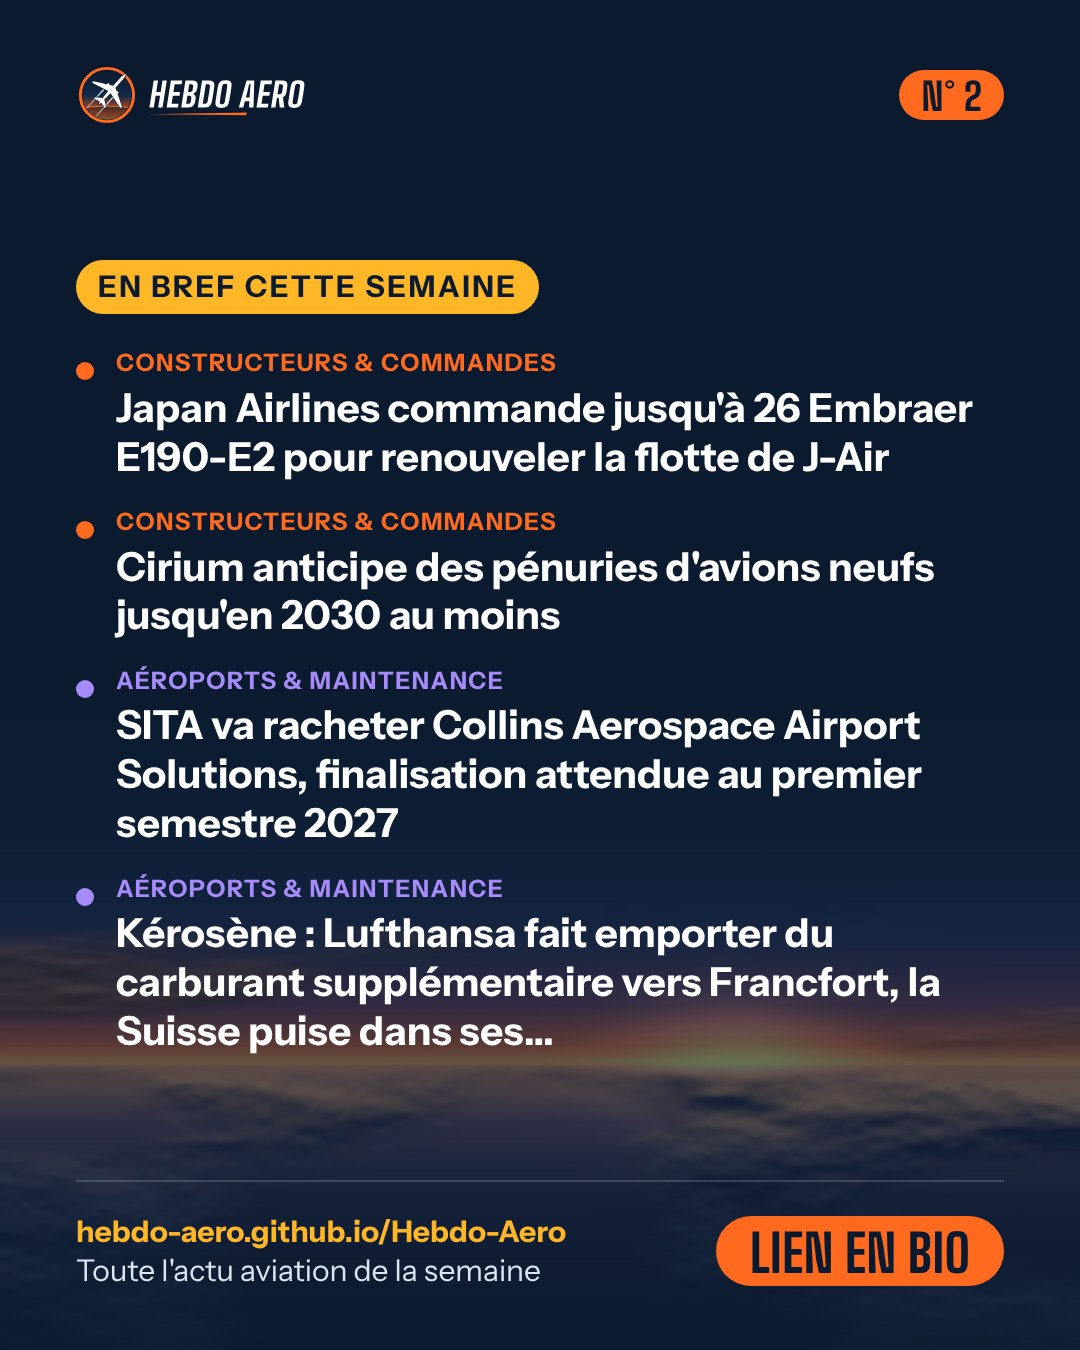
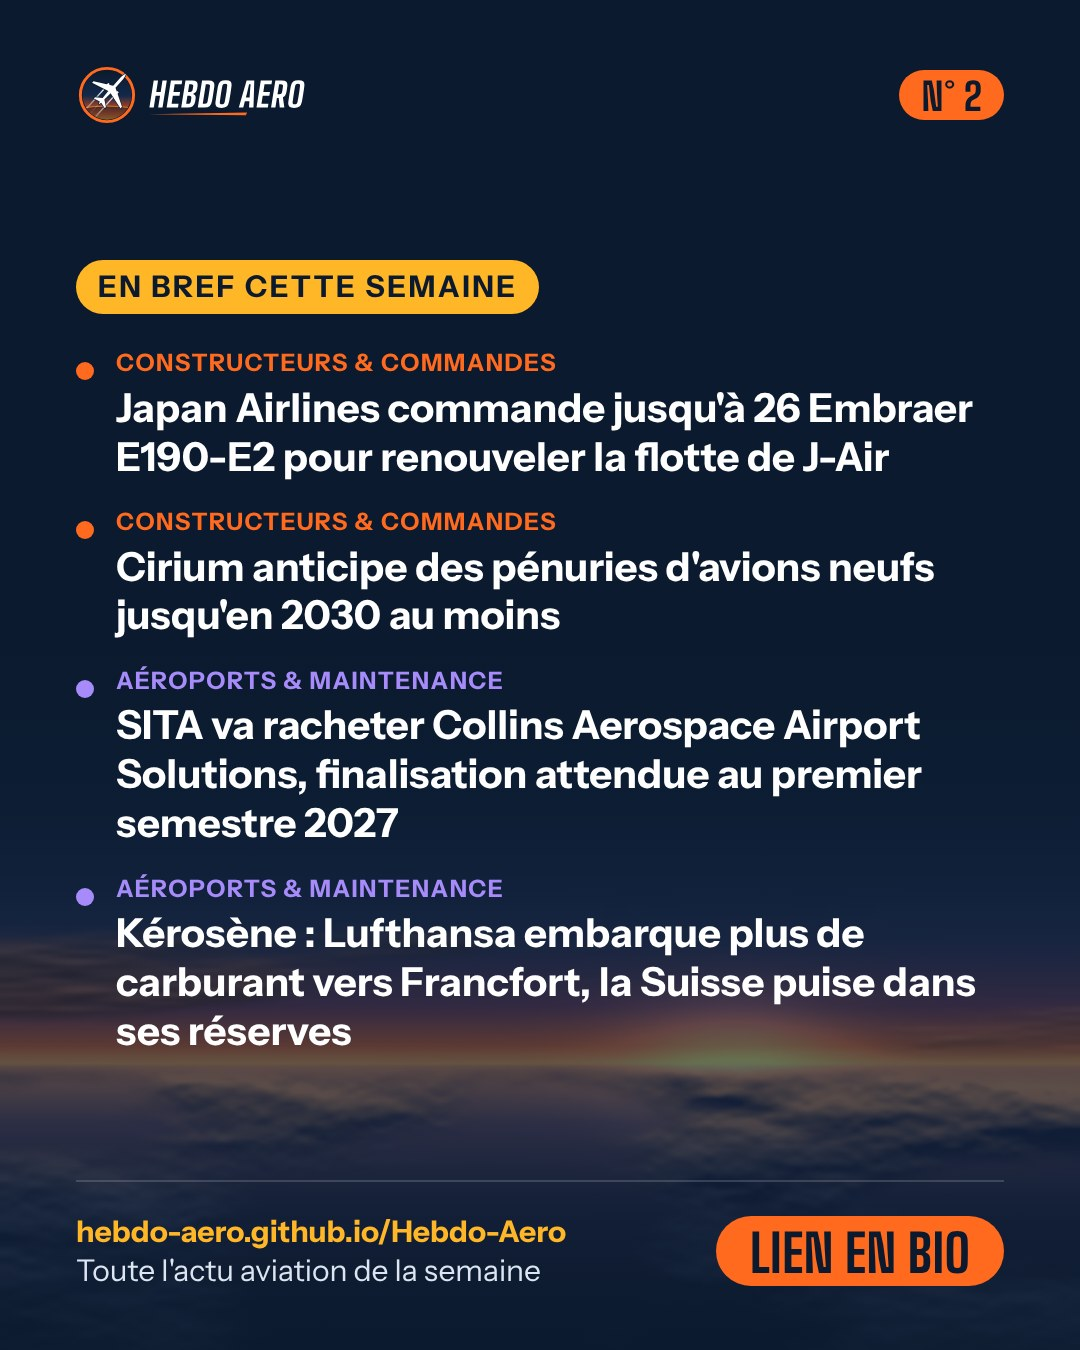
Stories Instagram (9:16) pour chaque image du jour, liens Instagram et TikTok sur le site
- cartes.py : chaque image du jour existe aussi en format story (1080 x 1920,
  « -story.jpg »), avec un repère vers le lien en bio ; le manifeste donne url_story.
- Pas de titre coupé (« … ») sur les images promotionnelles.
- Rédaction : titres de 90 caractères au plus demandés, coupure à 130 seulement.
- N° 2 : titre de brève coupé complété.
- Profils Instagram et TikTok affichés sur le site et dans la newsletter.

Claude-Session: https://claude.ai/code/session_01KFcxBXB6NXPWVbR6Dn4yeH

Changed region(s): [[0.0917, 0.6844, 0.9167, 0.7778]]

diff --git a/revue/templates/carte.html b/revue/templates/carte.html
@@ -50,6 +50,15 @@ footer p { font-size: 30px; color: #DCE6F2; line-height: 1.3; }
 footer p b { display: block; color: var(--soleil); font-size: 30px; }
 footer .cta { flex: none; font-family: "Big Shoulders"; font-weight: 700; font-size: 52px; color: var(--nuit); background: var(--orange);
               padding: 6px 34px 2px; border-radius: 999px; }
+
+/* Story Instagram (1080 × 1920) : le haut (barre de progression, nom du compte) et le bas (zone de réponse)
+   sont recouverts par l'interface d'Instagram, le contenu reste donc entre ces deux bandes. */
+html.story, html.story body { height: 1920px; }
+.story #ciel { height: 1150px; }
+.story #voile { background: linear-gradient(180deg, #0B1A2E 0%, #0B1A2E 34%, rgba(11,26,46,.84) 56%, rgba(11,26,46,.6) 76%, rgba(11,26,46,.94) 100%); }
+.story .cadre { padding: 236px 76px 330px; }
+.story main { padding: 40px 0 30px; }
+.story .repere { margin-top: 26px; font-size: 30px; font-weight: 700; color: var(--soleil); text-align: center; }
 </style>
 </head>
 <body class="c-{{ couleur }}">
@@ -84,8 +93,11 @@ footer .cta { flex: none; font-family: "Big Shoulders"; font-weight: 700; font-s
     <p><b>{{ adresse }}</b>Toute l'actu aviation de la semaine</p>
     <span class="cta">LIEN EN BIO</span>
   </footer>
+  {% if story %}<p class="repere">↖ Touchez @{{ compte }} en haut, puis le lien en bio</p>{% endif %}
 </div>
 <script>
+const STORY = {{ "true" if story else "false" }};
+if (STORY) document.documentElement.classList.add("story");
 // réduit les titres et textes trop longs pour qu'ils tiennent dans l'image
 function ajuster(sel, max, mini) {
   const e = document.querySelector(sel); if (!e) return;
@@ -93,7 +105,8 @@ function ajuster(sel, max, mini) {
   while (e.scrollHeight > max && t > mini) { t -= 2; e.style.fontSize = t + "px"; }
 }
 function preparer() {
-  ajuster(".titre", 520, 60); ajuster(".texte", 330, 28); ajuster(".legende", 330, 32); ajuster(".liste", 760, 28);
+  const k = STORY ? 1.35 : 1;   // plus de hauteur disponible en story
+  ajuster(".titre", 520 * k, 60); ajuster(".texte", 330 * k, 28); ajuster(".legende", 330 * k, 32); ajuster(".liste", 760 * k, 28);
   const main = document.querySelector("main");
   let garde = 0;
   while (main.scrollHeight > main.clientHeight + 2 && garde++ < 40) {

diff --git a/revue/cartes.py b/revue/cartes.py
@@ -1,9 +1,10 @@
-"""Images du jour pour Instagram et TikTok (1080 × 1350), tirées du numéro de la semaine.
+"""Images du jour pour Instagram et TikTok, tirées du numéro de la semaine.
 
 Une image par jour, du lundi au samedi : le chiffre de la semaine, les trois sujets « À la une »,
 les brèves, puis l'annonce du numéro du lendemain. Le dimanche, c'est la vidéo d'annonce.
-Les images et leur légende sont enregistrées dans data/cartes/ et publiées sur le site (/cartes/),
-d'où Metricool les récupère pour les programmer aux heures de pointe.
+Chaque image existe en deux formats : publication (1080 × 1350) et story Instagram (1080 × 1920,
+fichier « -story.jpg »). Les images et leur légende sont enregistrées dans data/cartes/ et publiées
+sur le site (/cartes/), d'où Metricool les récupère pour les programmer aux heures de pointe.
 
 Usage : python -m revue.generer cartes [--date AAAA-MM-JJ]
 """
@@ -54,13 +55,14 @@ def contenus(config: dict, numero: dict) -> list[dict]:
                        "couleur": "soleil",
                        "texte_post": f"{c['valeur']} : {c['legende']}\n\nC'est le chiffre de la semaine ✈\n\n{appel}\n\n{tags}"})
     for s in numero.get("une", []):
-        if _sensible(s):          # pas d'accident ni d'attentat en image promotionnelle
+        if _sensible(s) or s["titre"].endswith("…"):   # ni drame ni titre coupé en image promotionnelle
             continue
         r = RUBRIQUES.get(s["categorie"], {})
         cartes.append({"type": "une", "titre": s["titre"], "texte": _phrases(s["resume"]), "categorie": s["categorie"],
                        "sources": [x["nom"] for x in s["sources"]], "couleur": r.get("couleur", "orange"),
                        "texte_post": f"{s['titre']}\n\n{_phrases(s['resume'], 3, 420)}\n\n{appel}\n\n{MENTION_IA}\n\n{tags}"})
-    breves = [b for b in numero.get("breves", []) if not _sensible(b)][:4]
+    # pas de titre coupé (« … ») en image : il laisserait la phrase en suspens
+    breves = [b for b in numero.get("breves", []) if not _sensible(b) and not b["titre"].endswith("…")][:4]
     if len(breves) >= 2:
         cartes.append({"type": "breves", "couleur": "ciel",
                        "breves": [{"titre": b["titre"], "categorie": b["categorie"],
@@ -89,26 +91,33 @@ def rendre(config: dict, numero: dict, dossier: Path = DOSSIER) -> list[dict]:
     env = Environment(loader=FileSystemLoader(GABARITS), autoescape=True)
     gabarit = env.get_template("carte.html")
     base = config["site"].get("url") or ""
+    compte = config["reseaux"].get("compte") or "hebdoaeronews"
     cartes = contenus(config, numero)
     with sync_playwright() as p:
         navigateur = p.chromium.launch()
         page = navigateur.new_page(viewport={"width": 1080, "height": 1350}, device_scale_factor=1)
         for k, carte in enumerate(cartes, start=1):
-            html = travail / f"carte-{k}.html"
-            html.write_text(gabarit.render(
-                **carte, ciel=fond.as_uri(), polices=(RACINE / "assets" / "polices").as_uri(),
-                logo=(RACINE / "assets" / "logo" / "logo-sombre.svg").as_uri()), encoding="utf-8")
-            page.goto(html.as_uri(), wait_until="load")
-            page.evaluate("document.fonts.ready")
-            page.evaluate("preparer()")
-            fichier = f"{numero['date']}-{k}.jpg"
-            page.screenshot(path=str(dossier / fichier), type="jpeg", quality=88)
-            carte["fichier"] = fichier
-            carte["url"] = f"{base}cartes/{fichier}" if base else ""
+            # même contenu en deux formats : publication (4:5) et story Instagram (9:16)
+            for story, hauteur, suffixe in [(False, 1350, ""), (True, 1920, "-story")]:
+                page.set_viewport_size({"width": 1080, "height": hauteur})
+                html = travail / f"carte-{k}{suffixe}.html"
+                html.write_text(gabarit.render(
+                    **carte, story=story, compte=compte, ciel=fond.as_uri(),
+                    polices=(RACINE / "assets" / "polices").as_uri(),
+                    logo=(RACINE / "assets" / "logo" / "logo-sombre.svg").as_uri()), encoding="utf-8")
+                page.goto(html.as_uri(), wait_until="load")
+                page.evaluate("document.fonts.ready")
+                page.evaluate("preparer()")
+                fichier = f"{numero['date']}-{k}{suffixe}.jpg"
+                page.screenshot(path=str(dossier / fichier), type="jpeg", quality=88)
+                cle = "story" if story else "fichier"
+                carte[cle] = fichier
+                carte[f"url_{cle}"] = f"{base}cartes/{fichier}" if base else ""
         navigateur.close()
     manifeste = {"numero": numero["numero"], "date": numero["date"],
                  "periode": periode_fr(numero["debut"], numero["fin"]),
-                 "cartes": [{"jour": c["jour"], "type": c["type"], "fichier": c["fichier"], "url": c["url"],
-                             "legende": c["texte_post"]} for c in cartes]}
+                 "cartes": [{"jour": c["jour"], "type": c["type"], "fichier": c["fichier"], "url": c["url_fichier"],
+                             "story": c["story"], "url_story": c["url_story"], "legende": c["texte_post"]}
+                            for c in cartes]}
     ecrire_json(dossier / f"{numero['date']}.json", manifeste)
     return manifeste["cartes"]

diff --git a/tests/test_revue.py b/tests/test_revue.py
@@ -350,6 +350,28 @@ class TestCartes(unittest.TestCase):
             self.assertIn("lien en bio", x["texte_post"].lower())
             self.assertLessEqual(len(x["texte_post"]), 2200)
 
+    def test_titre_coupe_pas_en_image(self):
+        from revue import cartes
+        c = charger_config()
+        numero = lire_json(RACINE / "data" / "numeros" / "2026-10-11.json")
+        numero["breves"][0]["titre"] = "Un titre trop long coupé en plein milieu de la…"
+        numero["une"][0]["titre"] = "Un autre titre coupé…"
+        tout = " ".join(x.get("titre", "") + x["texte_post"] for x in cartes.contenus(c, numero))
+        self.assertNotIn("…", tout)
+
+    def test_format_story(self):
+        from jinja2 import Environment, FileSystemLoader
+        from revue import cartes
+        gabarit = Environment(loader=FileSystemLoader(cartes.GABARITS), autoescape=True).get_template("carte.html")
+        commun = dict(type="chiffre", valeur="42", legende="L", source="S", couleur="soleil", numero=2,
+                      adresse="exemple.org", compte="hebdoaeronews", ciel="", polices="", logo="")
+        story = gabarit.render(**commun, story=True)
+        self.assertIn("const STORY = true", story)
+        self.assertIn("Touchez @hebdoaeronews", story)
+        publication = gabarit.render(**commun, story=False)
+        self.assertIn("const STORY = false", publication)
+        self.assertNotIn("Touchez @", publication)
+
 
 class TestImagesSansMarque(unittest.TestCase):
     def test_marques_ecartees(self):

diff --git a/revue/redaction.py b/revue/redaction.py
@@ -64,7 +64,7 @@ _SOURCE = {
 _SUJET = {
     "type": "object",
     "properties": {
-        "titre": {"type": "string", "description": "Titre informatif, 110 caractères au plus."},
+        "titre": {"type": "string", "description": "Titre informatif et complet, 90 caractères au plus."},
         "resume": {"type": "string", "description": "2 à 4 phrases reformulées, 650 caractères au plus."},
         "categorie": {"type": "string", "enum": CATEGORIES},
         "region": {"type": "string", "enum": REGIONS},
@@ -236,7 +236,7 @@ def valider(brut: dict, articles: list[Article], urls_recherche: set[str], minim
             rejets.append(f"résumé trop proche d'un article : {s.get('titre')}")
             return None
         propre = {
-            "titre": _couper(s.get("titre"), 110),
+            "titre": _couper(s.get("titre"), 130),
             "resume": _couper(s.get("resume"), 650),
             "categorie": s["categorie"],
             "region": s["region"],

diff --git a/revue/construire.py b/revue/construire.py
@@ -17,7 +17,7 @@ from . import monetisation
 from .config import (CATEGORIES, RUBRIQUES, DOSSIER_MEDIAS, DOSSIER_RESEAUX, DOSSIER_SITE, RACINE, charger_config,
                      lire_json, lister_numeros, periode_fr)
 
-NOMS_RESEAUX = {"youtube": "YouTube", "instagram": "Instagram", "facebook": "Facebook", "threads": "Threads"}
+NOMS_RESEAUX = {"youtube": "YouTube", "instagram": "Instagram", "tiktok": "TikTok", "facebook": "Facebook", "threads": "Threads"}
 
 
 def preparer_numero(n: dict, config: dict, sortie: Path, voisins: tuple[int | None, int | None]) -> dict:

diff --git a/revue/newsletter.py b/revue/newsletter.py
@@ -28,7 +28,7 @@ DOSSIER_ENVOIS = RACINE / "data" / "newsletter"
 # Couleurs des rubriques lisibles sur fond blanc
 COULEURS = {"orange": "#C2410C", "ciel": "#1667A8", "soleil": "#A16207", "violet": "#7C3AED",
             "rouge": "#DC2626", "vert": "#15803D"}
-NOMS_RESEAUX = {"youtube": "YouTube", "instagram": "Instagram", "facebook": "Facebook", "threads": "Threads"}
+NOMS_RESEAUX = {"youtube": "YouTube", "instagram": "Instagram", "tiktok": "TikTok", "facebook": "Facebook", "threads": "Threads"}
 
 
 class ErreurNewsletter(RuntimeError):
